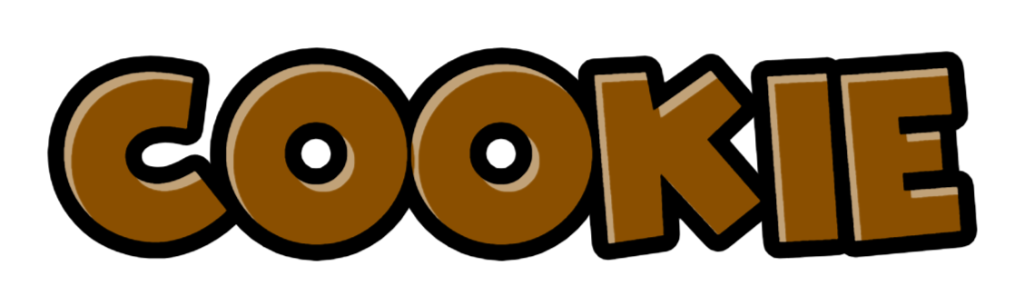
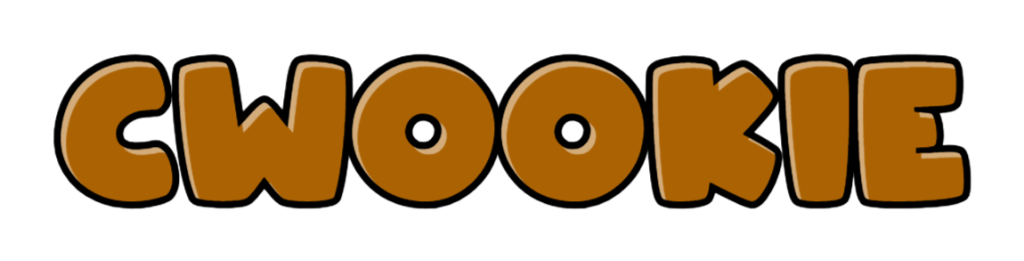
1

diff --git a/index.html b/index.html
@@ -3,7 +3,7 @@
 <html data-wf-domain="www.neirocoin.xyz" data-wf-page="66aa6d90482b8dc39d0db70e" data-wf-site="66aa6d90482b8dc39d0db712">
     <head>
         <meta charset="utf-8"/>
-        <title>COOKIE</title>
+        <title>CWOOK</title>
       
         <meta content="width=device-width, initial-scale=1" name="viewport"/>
         <meta content="Webflow" name="generator"/>
@@ -199,7 +199,7 @@ Uncomment this CSS to use it in the project. Leave this message for future hand-
                         </nav>
                         <div class="_3d-box is-nav hide-tablet">
                             <div class="_3d-shadow"></div>
-                            <a href="https://pump.fun/vygEZh5yG76h9M5V6Y1EixUmjMHVzgfy48qE7mbpump" target="_blank" class="button is-nav w-inline-block">
+                            <a href="https://pump.fun/9TkNiyQbkruTKt8a8BVnj4TgGFhF9oJ3LUth5Bsuump" target="_blank" class="button is-nav w-inline-block">
                                 <div>BUY NOW</div>
                             </a>
                         </div>
@@ -226,7 +226,7 @@ Uncomment this CSS to use it in the project. Leave this message for future hand-
                                     <img src="./img/hero2.PNG" loading="lazy" width="423" style="opacity:0" alt="" data-w-id="7e2f775c-1fbe-18de-0d1d-8c27484301ca" class="footer_mobile-img is-hero"/>
                                     <div data-w-id="493174f2-e356-9367-68c5-6a6489543b44" class="_3d-box">
                                         <div class="_3d-shadow"></div>
-                                        <a href="https://pump.fun/vygEZh5yG76h9M5V6Y1EixUmjMHVzgfy48qE7mbpump" target="_blank" class="button w-inline-block">
+                                        <a href="https://pump.fun/9TkNiyQbkruTKt8a8BVnj4TgGFhF9oJ3LUth5Bsuump" target="_blank" class="button w-inline-block">
                                             <div>PUMP.FUN</div>
                                            
                                            
@@ -234,7 +234,7 @@ Uncomment this CSS to use it in the project. Leave this message for future hand-
                                     </div>
                                     <div data-w-id="2cb78491-612f-0beb-79be-6d87ca353599" style="opacity:0" class="_3d-box is-mobile">
                                         <div class="_3d-shadow"></div>
-                                        <a href="https://jup.ag/swap/SOL-vygEZh5yG76h9M5V6Y1EixUmjMHVzgfy48qE7mbpump" target="_blank" class="button is-secondary w-inline-block">
+                                        <a href="https://jup.ag/swap/SOL-9TkNiyQbkruTKt8a8BVnj4TgGFhF9oJ3LUth5Bsuump" target="_blank" class="button is-secondary w-inline-block">
                                             <div>JUPITER</div>
                                             <div class="svg_chart w-embed">
                                                 <svg xmlns="http://www.w3.org/2000/svg" width="100%" height="100%" viewBox="0 0 43 43" fill="none" preserveAspectRatio="xMidYMid meet" aria-hidden="true" role="img">
@@ -298,7 +298,7 @@ Uncomment this CSS to use it in the project. Leave this message for future hand-
                                 <div class="about_socials is-mobile">
                                     <div class="socials_wrap">
                                         <div class="_3d-box">
-                                            <a href="https://t.me/cookiecoinlol" target="_blank" class="social_link is-tel w-inline-block">
+                                            <a href="https://t.me/cwookiesol" target="_blank" class="social_link is-tel w-inline-block">
                                                 <div class="svg_telegram w-embed">
                                                     <svg xmlns="http://www.w3.org/2000/svg" width="100%" height="100%" viewBox="0 0 49 40" fill="none" preserveAspectRatio="xMidYMid meet" aria-hidden="true" role="img">
                                                         <path d="M12.4468 23.0587L17.5998 37.3216C17.5998 37.3216 18.2441 38.6561 18.934 38.6561C19.6238 38.6561 29.8847 27.9816 29.8847 27.9816L41.2951 5.94254L12.6306 19.377L12.4468 23.0587Z" fill="#C8DAEA"/>
@@ -310,7 +310,7 @@ Uncomment this CSS to use it in the project. Leave this message for future hand-
                                             <div class="_3d-shadow is-social"></div>
                                         </div>
                                         <div class="_3d-box">
-                                            <a href="https://x.com/cookiecoinlol" target="_blank" class="social_link is-x w-inline-block">
+                                            <a href="https://x.com/cwookiesol" target="_blank" class="social_link is-x w-inline-block">
                                                 <div class="svg_x w-embed">
                                                     <svg xmlns="http://www.w3.org/2000/svg" width="100%" height="100%" viewBox="0 0 45 45" fill="none" preserveAspectRatio="xMidYMid meet" aria-hidden="true" role="img">
                                                         <path d="M26.5238 19.1331L42.9064 0.5H39.0256L24.7946 16.6756L13.4367 0.5H0.333496L17.5126 24.9627L0.333496 44.5H4.2143L19.233 27.4144L31.2303 44.5H44.3335M5.61496 3.36348H11.577L39.0227 41.7772H33.0592" fill="currentColor"/>
@@ -356,7 +356,7 @@ Uncomment this CSS to use it in the project. Leave this message for future hand-
                     <div data-w-id="a48bb2ad-251e-7b8a-b9b9-325b792fb37a" class="about_socials is-hero hide-mobile-landscape">
                         <div class="socials_wrap">
                             <div class="_3d-box">
-                                <a href="https://t.me/cookiecoinlol" target="_blank" class="social_link is-tel w-inline-block">
+                                <a href="https://t.me/cwookiesol" target="_blank" class="social_link is-tel w-inline-block">
                                     <div class="svg_telegram w-embed">
                                         <svg xmlns="http://www.w3.org/2000/svg" width="100%" height="100%" viewBox="0 0 49 40" fill="none" preserveAspectRatio="xMidYMid meet" aria-hidden="true" role="img">
                                             <path d="M12.4468 23.0587L17.5998 37.3216C17.5998 37.3216 18.2441 38.6561 18.934 38.6561C19.6238 38.6561 29.8847 27.9816 29.8847 27.9816L41.2951 5.94254L12.6306 19.377L12.4468 23.0587Z" fill="#C8DAEA"/>
@@ -368,7 +368,7 @@ Uncomment this CSS to use it in the project. Leave this message for future hand-
                                 <div class="_3d-shadow"></div>
                             </div>
                             <div class="_3d-box">
-                                <a href="https://x.com/cookiecoinlol" target="_blank" class="social_link is-x w-inline-block">
+                                <a href="https://x.com/cwookiesol" target="_blank" class="social_link is-x w-inline-block">
                                     <div class="svg_x w-embed">
                                         <svg xmlns="http://www.w3.org/2000/svg" width="100%" height="100%" viewBox="0 0 45 45" fill="none" preserveAspectRatio="xMidYMid meet" aria-hidden="true" role="img">
                                             <path d="M26.5238 19.1331L42.9064 0.5H39.0256L24.7946 16.6756L13.4367 0.5H0.333496L17.5126 24.9627L0.333496 44.5H4.2143L19.233 27.4144L31.2303 44.5H44.3335M5.61496 3.36348H11.577L39.0227 41.7772H33.0592" fill="currentColor"/>
@@ -384,14 +384,14 @@ Uncomment this CSS to use it in the project. Leave this message for future hand-
                     <div class="padding-global padding-section-large is-about">
                         <div class="container-large">
                             <div class="about_content">
-                              <h2 class="about-h2">About COOKIE</h2>
+                              <h2 class="about-h2">About CWOOK</h2>
                                 <div class="w-layout-grid about_grid">
                                     <div id="w-node-_8a6cba1f-4796-c2d9-1c35-d2fdd9cc9054-9d0db70e" class="about_info">
                                         <div data-w-id="3b624b6a-6942-892a-07aa-fea77453814e" class="about_h3_wrap">
                                             
-                                            <h3 class="about_h3">who is COOKIE?</h3>
+                                            <h3 class="about_h3">who is CWOOK?</h3>
                                         </div>
-                                        <p class="about_p">COOKIE is a little gingerbread figurine adorned with colourful icing and candy decorations.</p>
+                                        <p class="about_p">CWOOK is a little gingerbread figurine adorned with colourful icing and candy decorations.</p>
                                         
                                     </div>
                                     <div id="w-node-_5fe2e68f-0cc7-3949-5f9d-1524fbc74415-9d0db70e" class="about_image_wrap is-new">
@@ -405,7 +405,7 @@ Uncomment this CSS to use it in the project. Leave this message for future hand-
                                           
                                             <h3 class="about_h3">Origin</h3>
                                         </div>
-                                        <p class="about_p">COOKIE was created and invented from scratch, original and ready to revolutionise memecoins.</p>
+                                        <p class="about_p">CWOOK was created and invented from scratch, original and ready to revolutionise memecoins.</p>
                                        
                                     </div>
                                     <div id="w-node-de9c3b4a-073c-e9c5-374e-2cdb9fa5ab0d-9d0db70e" class="about_info">
@@ -417,7 +417,7 @@ Uncomment this CSS to use it in the project. Leave this message for future hand-
                                             </div>
                                             <h3 class="about_h3">the future</h3>
                                         </div>
-                                        <p class="about_p is-smaller">The future looks bright for COOKIE. It's set to win the hearts of memecoin enthusiasts everywhere, and revolutionise the world of blockchain.</p>
+                                        <p class="about_p is-smaller">The future looks bright for CWOOK. It's set to win the hearts of memecoin enthusiasts everywhere, and revolutionise the world of blockchain.</p>
                                         
                                     </div>
                                     <div id="w-node-_19c42b2d-925a-efdb-1e0a-4ca01c5732dc-9d0db70e" class="about_image_wrap is-last">
@@ -532,9 +532,9 @@ Uncomment this CSS to use it in the project. Leave this message for future hand-
                                                     <div class="buy_nb_wrap">
                                                         <div class="buy_nb">3</div>
                                                     </div>
-                                                    <h3 class="buy_h3">Buy $COOKIE</h3>
+                                                    <h3 class="buy_h3">Buy $CWOOK</h3>
                                                     <p class="buy_p">
-                                                      Go to Pump.fun and paste the $COOKIE token address. Swap your $SOL for $COOKIE.
+                                                      Go to Pump.fun and paste the $CWOOK token address. Swap your $SOL for $CWOOK.
                                                     
                                                     </p>
                                                 </div>
@@ -558,7 +558,7 @@ Uncomment this CSS to use it in the project. Leave this message for future hand-
                                 </div>
                                 <div class="_3d-box is-buy">
                                     <div class="_3d-shadow"></div>
-                                    <a fs-copyclip-message="CA Copied!" fs-copyclip-element="click" fs-copyclip-text="vygEZh5yG76h9M5V6Y1EixUmjMHVzgfy48qE7mbpump" href="#" class="button is-cta w-inline-block">
+                                    <a fs-copyclip-message="CA Copied!" fs-copyclip-element="click" fs-copyclip-text="9TkNiyQbkruTKt8a8BVnj4TgGFhF9oJ3LUth5Bsuump" href="#" class="button is-cta w-inline-block">
                                         <div>contract address</div>
                                         <div class="svg_copy w-embed">
                                             <svg xmlns="http://www.w3.org/2000/svg" width="100%" height="100%" viewBox="0 0 32 34" fill="none" preserveAspectRatio="xMidYMid meet" aria-hidden="true" role="img">
@@ -658,7 +658,7 @@ Uncomment this CSS to use it in the project. Leave this message for future hand-
                                 <img src="./img/bread.png" loading="lazy" width="637" style="opacity:0" alt="" data-w-id="8b969b3c-4e07-e565-ac68-ae01c9aedcb8" class="svg_h1"/>
                                 <div class="_3d-box">
                                     <div class="_3d-shadow"></div>
-                                    <a href="https://pump.fun/vygEZh5yG76h9M5V6Y1EixUmjMHVzgfy48qE7mbpump" target="_blank" class="button w-inline-block">
+                                    <a href="https://pump.fun/9TkNiyQbkruTKt8a8BVnj4TgGFhF9oJ3LUth5Bsuump" target="_blank" class="button w-inline-block">
                                         <div class="text-block">BUY ON PUMP.FUN</div>
                                     </a>
                                 </div>
@@ -2729,14 +2729,14 @@ Uncomment this CSS to use it in the project. Leave this message for future hand-
                                     <script src="https://trsdesign.ro/wp-content/uploads/neirocoin/main.js"></script>
                                 </div>
                             </div>
-                            <div class="footer_text">vygEZh5yG76h9M5V6Y1EixUmjMHVzgfy48qE7mbpump</div>
+                            <div class="footer_text">9TkNiyQbkruTKt8a8BVnj4TgGFhF9oJ3LUth5Bsuump</div>
                         </div>
                     </div>
                 </div>
                 <div class="about_socials">
                     <div class="socials_wrap">
                         <div class="_3d-box">
-                            <a href="https://t.me/cookiecoinlol" target="_blank" class="social_link is-tel w-inline-block">
+                            <a href="https://t.me/cwookiesol" target="_blank" class="social_link is-tel w-inline-block">
                                 <div class="svg_telegram w-embed">
                                     <svg xmlns="http://www.w3.org/2000/svg" width="100%" height="100%" viewBox="0 0 49 40" fill="none" preserveAspectRatio="xMidYMid meet" aria-hidden="true" role="img">
                                         <path d="M12.4468 23.0587L17.5998 37.3216C17.5998 37.3216 18.2441 38.6561 18.934 38.6561C19.6238 38.6561 29.8847 27.9816 29.8847 27.9816L41.2951 5.94254L12.6306 19.377L12.4468 23.0587Z" fill="#C8DAEA"/>
@@ -2748,7 +2748,7 @@ Uncomment this CSS to use it in the project. Leave this message for future hand-
                             <div class="_3d-shadow is-social"></div>
                         </div>
                         <div class="_3d-box">
-                            <a href="https://x.com/cookiecoinlol" class="social_link is-x w-inline-block">
+                            <a href="https://x.com/cwookiesol" class="social_link is-x w-inline-block">
                                 <div class="svg_x w-embed">
                                     <svg xmlns="http://www.w3.org/2000/svg" width="100%" height="100%" viewBox="0 0 45 45" fill="none" preserveAspectRatio="xMidYMid meet" aria-hidden="true" role="img">
                                         <path d="M26.5238 19.1331L42.9064 0.5H39.0256L24.7946 16.6756L13.4367 0.5H0.333496L17.5126 24.9627L0.333496 44.5H4.2143L19.233 27.4144L31.2303 44.5H44.3335M5.61496 3.36348H11.577L39.0227 41.7772H33.0592" fill="currentColor"/>
